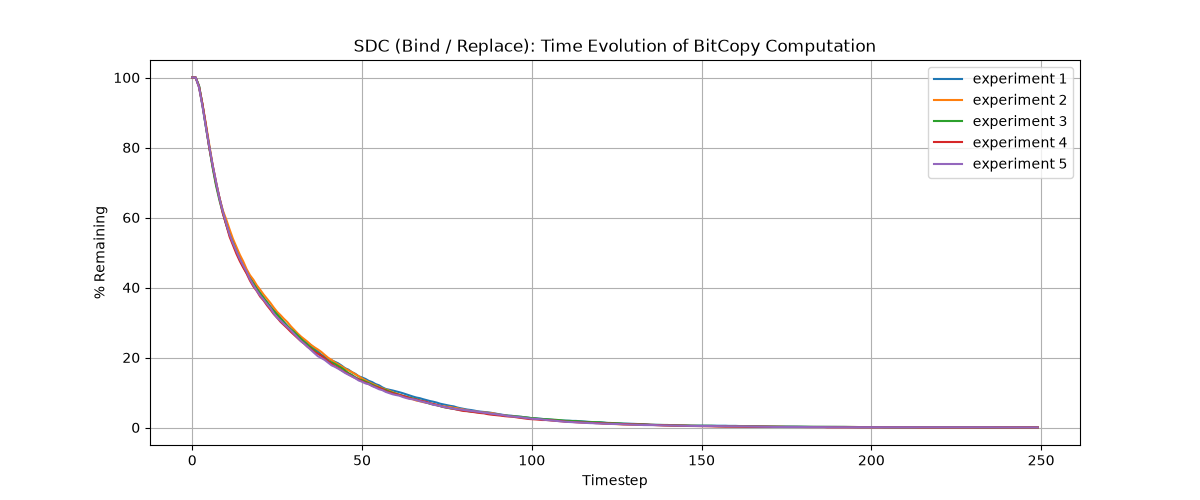
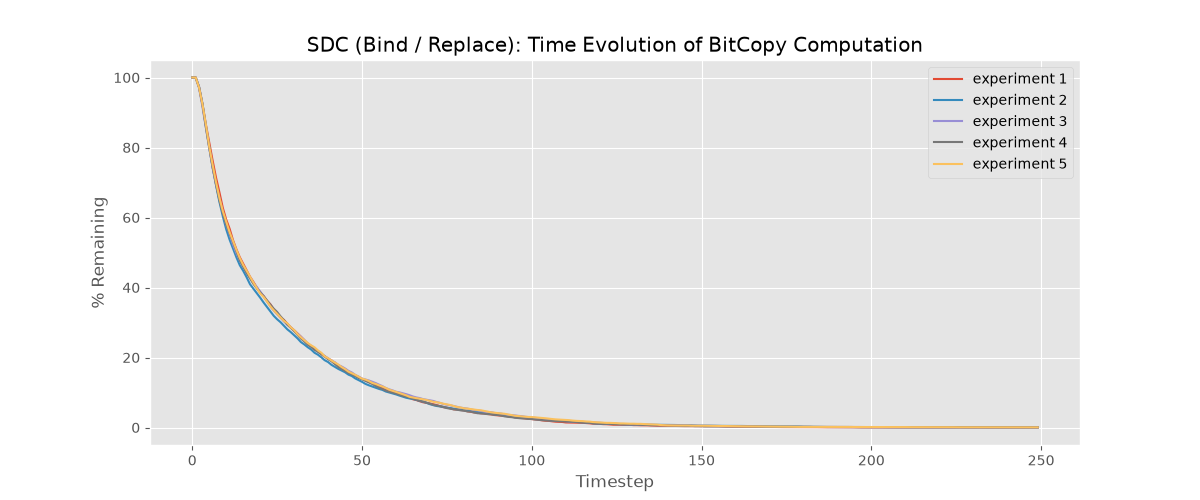
aded some nupack tutorials (from the documentation - to test installed correctly) + slight enhancement to plot results (set style to ggplot)

diff --git a/src/research/nupack/tutorial/design.py b/src/research/nupack/tutorial/design.py
@@ -1,0 +1,27 @@
+from nupack import *
+
+
+def main() -> None:
+    print("\n")
+    print("\tNUPACK Tutorial - Design a Tube")
+    print("\n")
+
+    a   = Domain('A4',   name = 'Domain a')
+    b   = Domain('N10',  name = 'Domain b')
+    c   = Domain('R5N5', name = 'Domain c')
+
+    A   = TargetStrand([a, a, b], name = 'Strand A')
+    B   = TargetStrand([~b, ~c],  name = 'Strand B')
+    C   = TargetStrand([c],       name = 'Strand C')
+
+    C1  = TargetComplex([A, B, C], '.8(10+)10(10+)10', name = 'Complex C1')
+    C2  = TargetComplex([B, C],    '.10(10+)10',       name = 'Complex C2')
+
+    tt1 = TargetTube(on_targets = {C1: 1e-8, C2: 1e-8}, off_targets = SetSpec(max_size = 3), name = 'TargetTube 1')
+
+    model1  = Model(material = 'rna', celsius = 37)
+    my_des  = tube_design(tubes = [tt1], hard_constraints = [], soft_constraints = [], defect_weights = None, options = None, model = model1)
+    results = my_des.run(trials = 3)
+
+    print(results)
+    print("\n")

diff --git a/src/research/nupack/tutorial/analyze.py b/src/research/nupack/tutorial/analyze.py
@@ -1,0 +1,17 @@
+from nupack import *
+
+
+def main() -> None:
+    print("\n")
+    print("\tNUPACK Tutorial - Analyze a Tube")
+    print("\n")
+
+    A  = Strand('CTGATCGAT',  name = 'Strand A')
+    B  = Strand('GATCGTAGTC', name = 'Strand B')
+    t1 = Tube(strands = {A: 1e-8, B: 1e-9}, complexes = SetSpec(max_size = 2), name = 'Tube 1')
+
+    model1  = Model(material = 'rna', celsius = 37)
+    results = tube_analysis(tubes = [t1], model = model1)
+
+    print(results)
+    print("\n")

diff --git a/src/experiments/sdc/bind_replace/__init__.py b/src/experiments/sdc/bind_replace/__init__.py
@@ -77,6 +77,7 @@ def print_result(count: int, total: int) -> None:
 
 
 def plot_results(iters: int, total: int, timesteps: int, data: Dict, title: str, field: str, group: str, name: str) -> None:
+    plt.style.use("ggplot")
     plt.subplots(figsize = (12, 5))
     plt.title(title)
     plt.grid(True)
